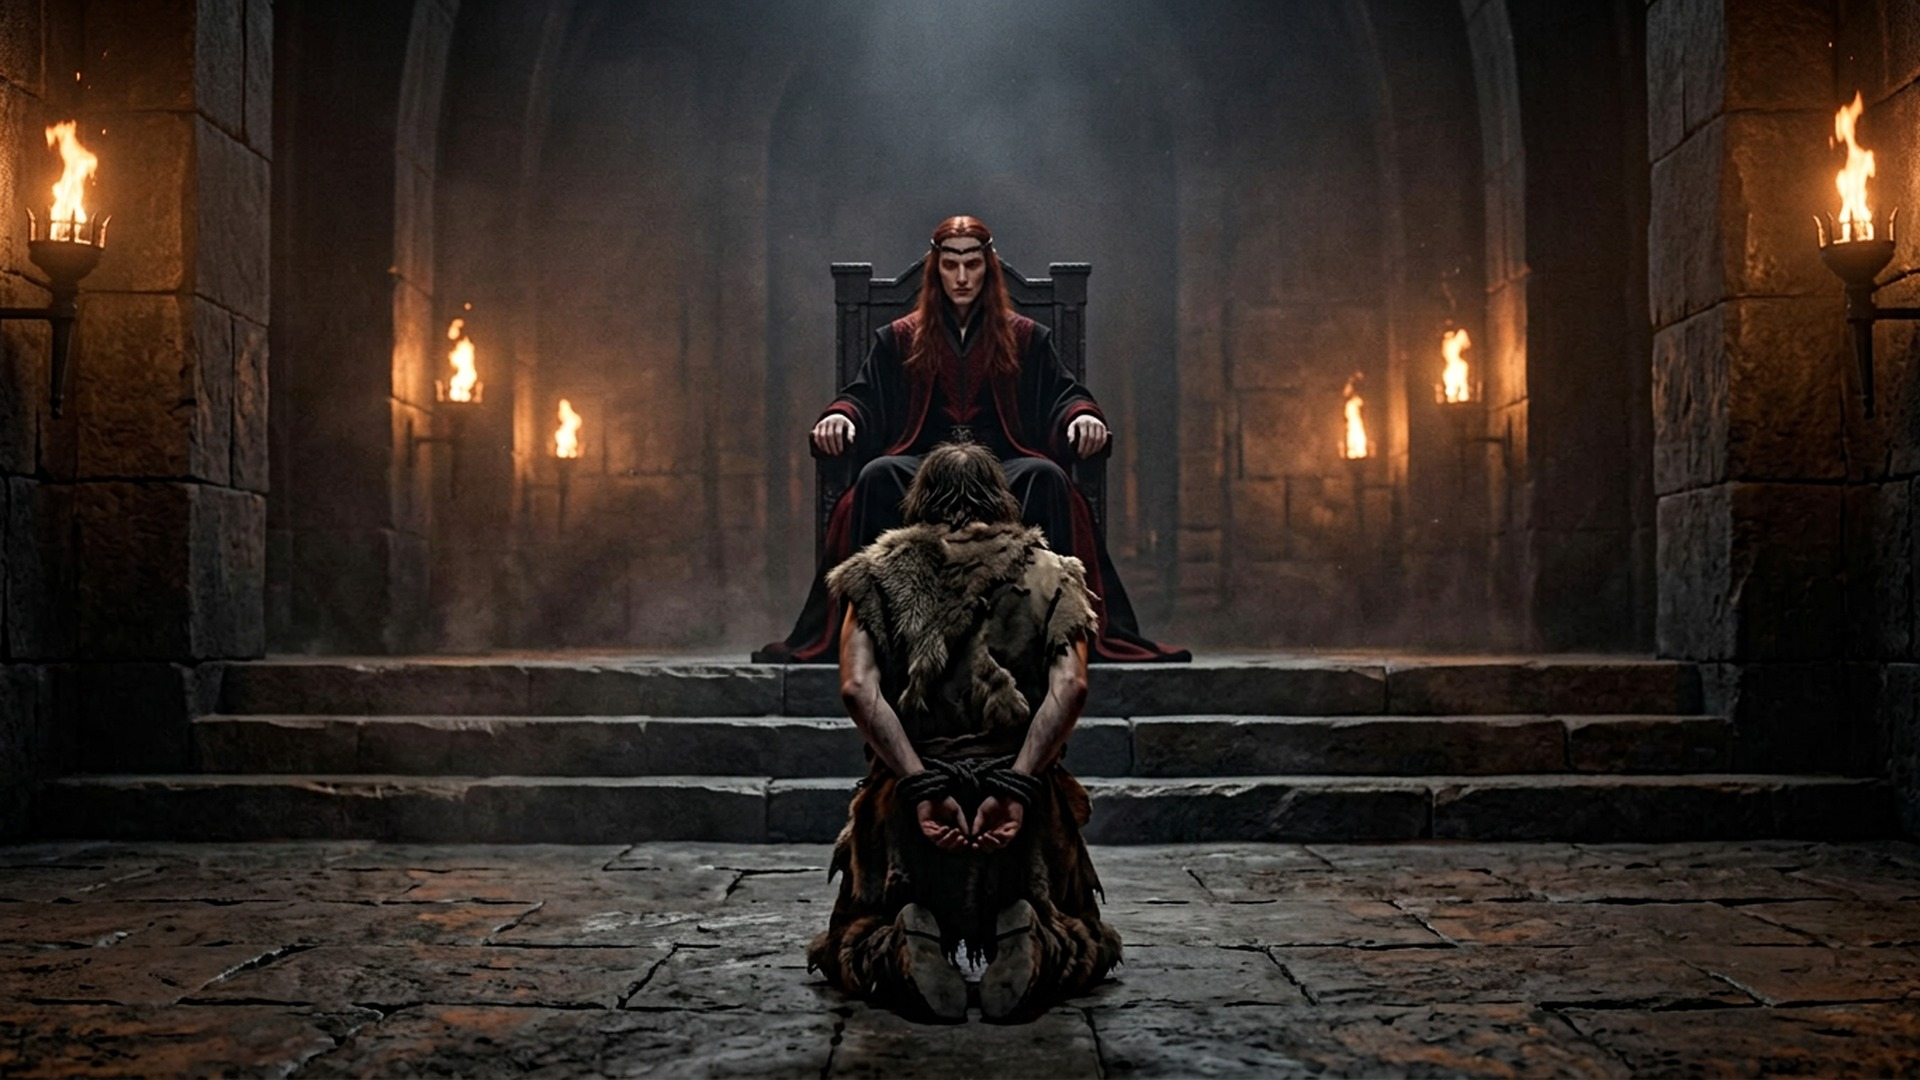
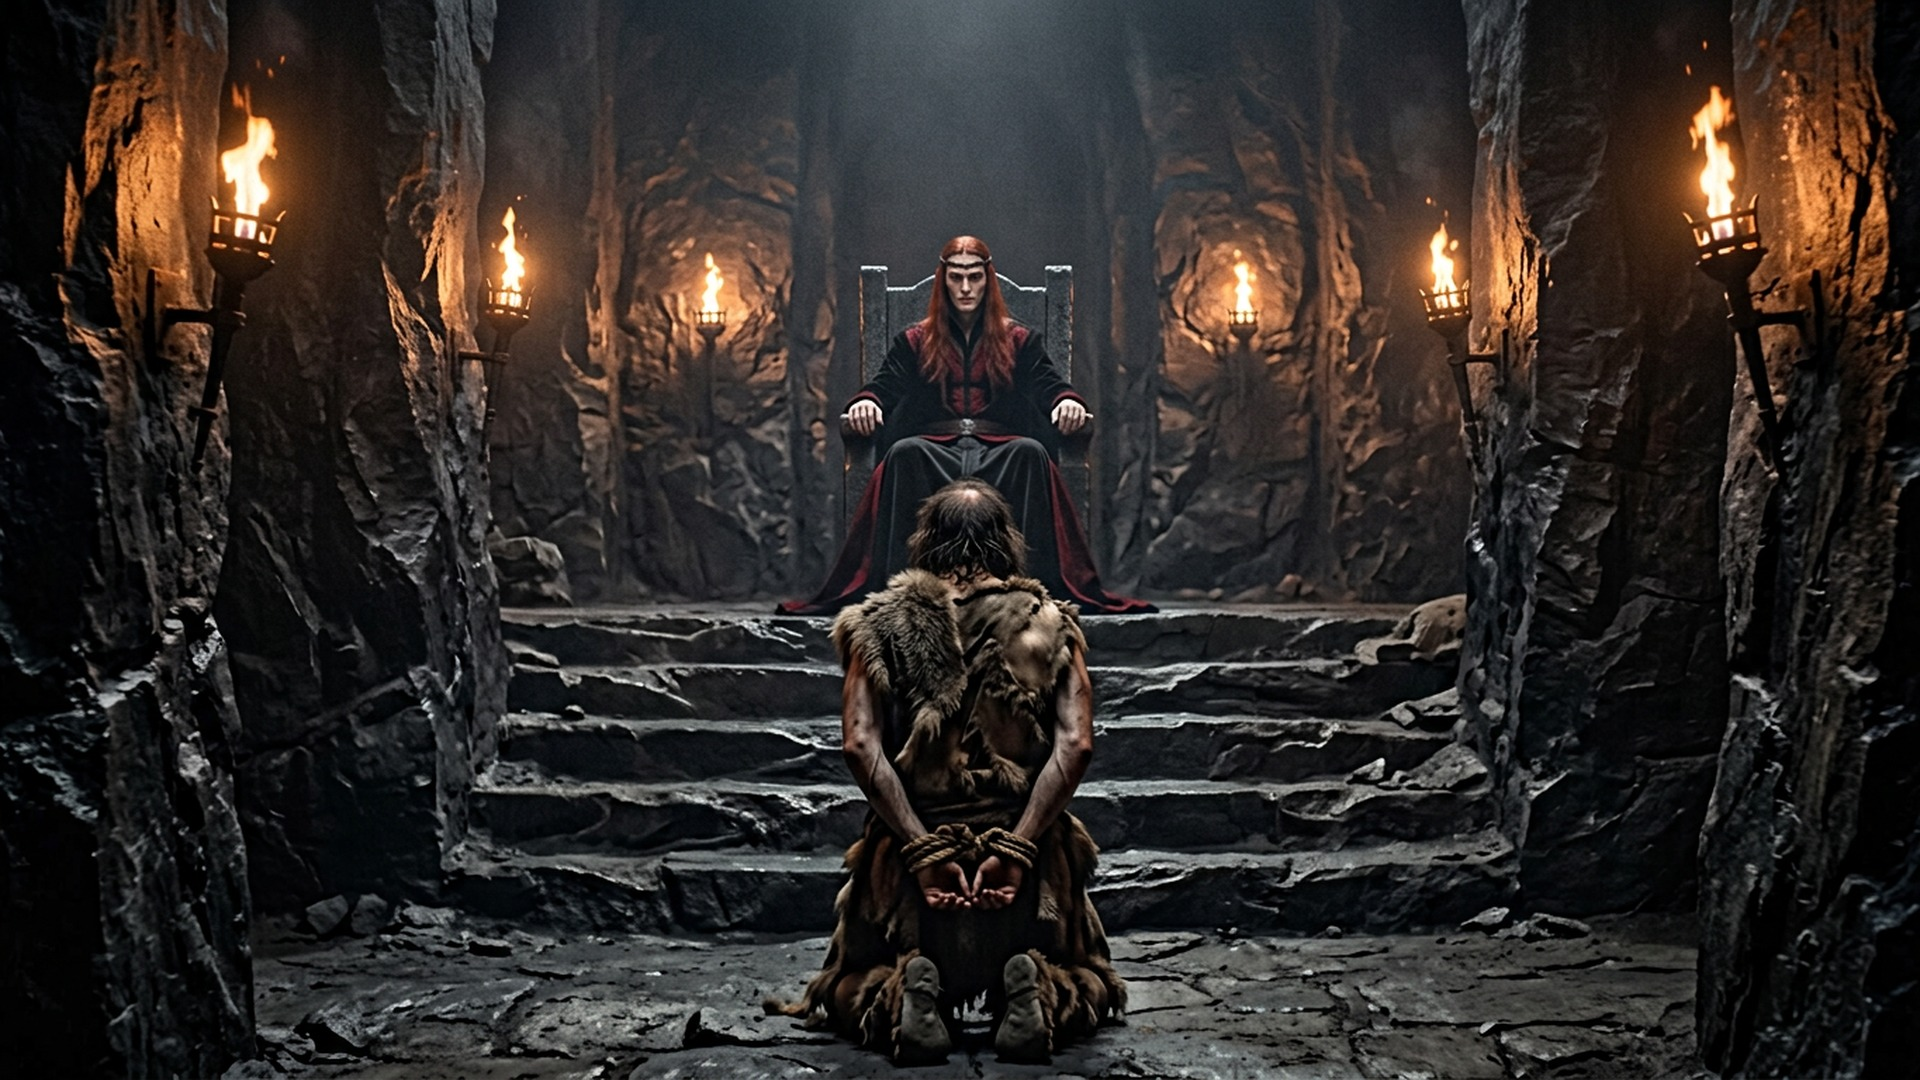
LOTR001: S064 redo PASS, S065-S073 (S069 Beren REDO: Aragorn drift); Beren look updated

diff --git a/projects/dune_archives/data/lotr001_images.py b/projects/dune_archives/data/lotr001_images.py
@@ -50,7 +50,9 @@ CAST = {
                 'fully covered, ethereal, never sexualised'),
     'FINROD': ('Finrod Felagund, King of Nargothrond: a tall elf-king with long golden hair, a noble kind face, grey eyes, a fine gold '
                'crown, a grey cloak over silver mail'),
-    'BEREN': 'Beren, a mortal man of about twenty-five: lean and rugged, dark hair, grey eyes, a short beard, worn leather and a grey cloak',
+    'BEREN': ('Beren, a mortal man of about twenty-five with an invented face: lean and young, dark hair cropped SHORT and rough, keen grey eyes, '
+              'clean-shaven with light stubble, a crooked once-broken nose and a small scar on one cheekbone, worn leather and a grey cloak; '
+              'NOT long hair, NOT a full beard, NOT resembling Aragorn or Viggo Mortensen'),
     'HUAN': 'Huan, the great wolfhound of Valinor: a huge pale-grey hound the size of a pony, a long noble head, deep intelligent eyes',
     'SAURON_WOLF': 'Sauron in the form of a werewolf: a colossal grey-black wolf, the greatest ever seen, eyes like red embers',
     'CELEBRIMBOR': ('Celebrimbor, lord of the elven-smiths of Eregion: a young-looking elf lord with long straight black hair, sharp '

diff --git a/projects/dune_archives/worlds/middle_earth/MIDDLE_EARTH_BOOK_LOOKS.md b/projects/dune_archives/worlds/middle_earth/MIDDLE_EARTH_BOOK_LOOKS.md
@@ -39,3 +39,4 @@ Book descriptions first. Where the books are silent, the design is our own and m
 
 - **Hobbits and the Fellowship drift hard toward the film cast** (Frodo → Elijah Wood, Sam → Sean Astin, Gandalf → Ian McKellen, Legolas, Aragorn). Frame them **from behind, over the shoulder, as hands or props, or small in a wide shot**, never as a frontal face. Group shots: faces distant or in soft focus.
 - Elrond: a plain silver band (the book's circlet), full hairline, never the film's receding hairline and filigree V-circlet.
+- Beren (2026-11-26): long dark hair + beard drifts to film Aragorn. Use short cropped dark hair, stubble, a crooked broken nose and a cheek scar.
